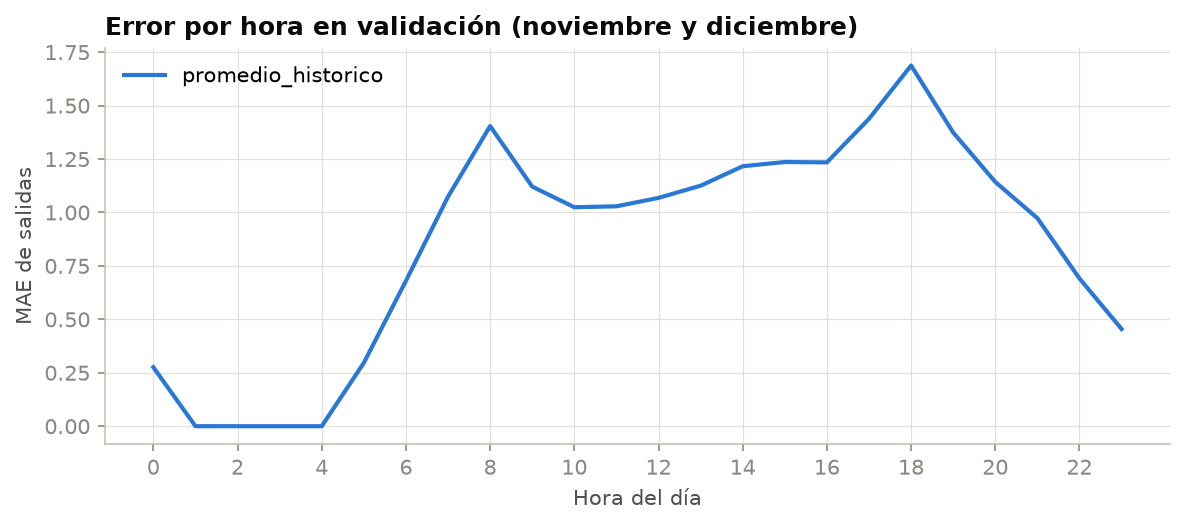
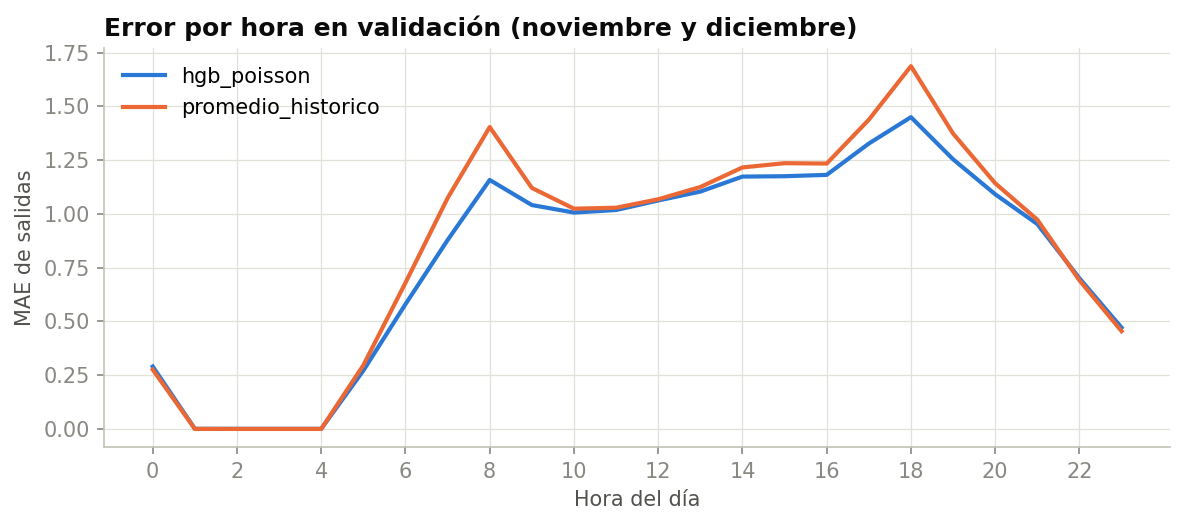
Entrena, evalúa y registra los modelos de MiBici
Agrega el pipeline de scikit-learn con ajuste temporal de hiperparámetros, compara los modelos con las líneas base y registra el mejor en MLflow. Incluye predicción por lote y actualiza las gráficas de resultados.

diff --git a/mibici_mlops/modeling/train.py b/mibici_mlops/modeling/train.py
@@ -1,0 +1,212 @@
+"""Ajuste temporal, entrenamiento y evaluacion de los modelos de demanda."""
+
+from pathlib import Path
+from tempfile import TemporaryDirectory
+from typing import Annotated
+
+from loguru import logger
+import mlflow
+import mlflow.sklearn
+import pandas as pd
+from sklearn.ensemble import HistGradientBoostingRegressor
+from sklearn.linear_model import PoissonRegressor
+from sklearn.model_selection import ParameterGrid
+from sklearn.multioutput import MultiOutputRegressor
+from sklearn.pipeline import make_pipeline
+import typer
+
+from mibici_mlops.config import (
+    EXPERIMENT_MODELS,
+    MLFLOW_TRACKING_URI,
+    PROCESSED_DATA_DIR,
+    RANDOM_SEED,
+    REGISTERED_MODEL_NAME,
+    SELECTION_METRIC,
+    TARGET_IMPROVEMENT_PCT,
+    TRAIN_END,
+    TUNING_START,
+    YEAR_END,
+    YEAR_START,
+)
+from mibici_mlops.features import (
+    FEATURE_COLUMNS,
+    STATION_NUMERIC,
+    TARGETS,
+    FeatureBuilder,
+    build_preprocessor,
+)
+from mibici_mlops.modeling.compare import comparison_table, load_runs
+from mibici_mlops.modeling.evaluate import improvement_pct, peak_mask, score_frame
+from mibici_mlops.modeling.predict import KEYS, predict_frame
+from mibici_mlops.tracking import file_sha256
+
+app = typer.Typer(pretty_exceptions_show_locals=False)
+CANDIDATES = {
+    "poisson": (PoissonRegressor, {"alpha": [0.001, 0.01], "solver": ["newton-cholesky"]}),
+    "hgb_poisson": (
+        HistGradientBoostingRegressor,
+        {
+            "max_leaf_nodes": [31, 63],
+            "loss": ["poisson"],
+            "max_iter": [100],
+            "early_stopping": [False],
+            "random_state": [RANDOM_SEED],
+        },
+    ),
+}
+
+
+def fit_and_score(estimator, train: pd.DataFrame, valid: pd.DataFrame):
+    preprocessor = build_preprocessor().set_params(sparse_threshold=0)
+    pipeline = make_pipeline(preprocessor, MultiOutputRegressor(estimator))
+    pipeline.fit(train[FEATURE_COLUMNS], train[TARGETS])
+    predictions = predict_frame(pipeline, valid)
+    metrics = score_frame(valid, {target: predictions[f"pred_{target}"] for target in TARGETS})
+    return pipeline, predictions, metrics
+
+
+def train_candidate(name, train, valid, tuning_train, tuning_valid, data_tags):
+    estimator, grid = CANDIDATES[name]
+    trials = []
+    for params in ParameterGrid(grid):
+        _, _, metrics = fit_and_score(estimator(**params), tuning_train, tuning_valid)
+        trials.append({"params": params, "metrics": metrics})
+        logger.info(f"{name} {params}: MAE pico de ajuste = {metrics[SELECTION_METRIC]:.3f}")
+
+    best = min(
+        trials,
+        key=lambda trial: (trial["metrics"][SELECTION_METRIC], trial["metrics"]["salidas_mae"]),
+    )
+    with mlflow.start_run(run_name=name):
+        mlflow.set_tags({"tipo": "modelo", **data_tags})
+        mlflow.log_params(
+            {
+                "modelo": name,
+                "semilla": RANDOM_SEED,
+                "inicio_validacion_interna": TUNING_START,
+                "inicio_validacion_final": TRAIN_END,
+                **best["params"],
+            }
+        )
+        mlflow.log_dict({"pruebas": trials}, "ajuste_hiperparametros.json")
+        pipeline, predictions, metrics = fit_and_score(estimator(**best["params"]), train, valid)
+        mlflow.log_metrics(metrics)
+        with TemporaryDirectory() as tmp:
+            path = Path(tmp) / "predicciones_validacion.parquet"
+            predictions.to_parquet(path, index=False)
+            mlflow.log_artifact(str(path))
+
+        trusted_types = (
+            ["sklearn.ensemble._hist_gradient_boosting.predictor.TreePredictor"]
+            if estimator is HistGradientBoostingRegressor
+            else None
+        )
+        model = mlflow.sklearn.log_model(
+            pipeline,
+            name="modelo",
+            input_example=train[FEATURE_COLUMNS].head(),
+            serialization_format="skops",
+            skops_trusted_types=trusted_types,
+        )
+        logger.success(f"{name}: MAE pico = {metrics[SELECTION_METRIC]:.3f} | {model.model_uri}")
+
+
+def register_best(experiment: str, dataset_sha256: str):
+    runs = load_runs(experiment)
+    if "tags.dataset_sha256" not in runs:
+        raise typer.BadParameter("No hay corridas con una versión de datos registrada")
+    runs = runs[runs["tags.dataset_sha256"] == dataset_sha256]
+    if runs.empty:
+        raise typer.BadParameter("No hay corridas para este archivo de variables")
+
+    table = comparison_table(runs)
+    baselines = table[table["tipo"] == "linea_base"]
+    if baselines.empty:
+        raise typer.BadParameter("Ejecuta make baseline antes de registrar el modelo")
+    baseline = baselines.iloc[0]
+    improvement = improvement_pct(table[SELECTION_METRIC], baseline[SELECTION_METRIC])
+    eligible = table[
+        (table["tipo"] == "modelo")
+        & (improvement >= TARGET_IMPROVEMENT_PCT)
+        & (table["llegadas_mae_pico"] <= baseline["llegadas_mae_pico"])
+    ]
+    if eligible.empty:
+        raise typer.BadParameter(
+            "Ningún modelo cumple la meta de salidas y el criterio de llegadas"
+        )
+
+    client = mlflow.MlflowClient()
+    run = client.get_run(eligible.iloc[0]["run_id"])
+    versions = client.search_model_versions(f"name = '{REGISTERED_MODEL_NAME}'")
+    for version in versions:
+        if version.run_id == run.info.run_id and version.status == "READY":
+            return version
+
+    model_id = run.outputs.model_outputs[0].model_id
+    tags = {**run.data.params, **run.data.metrics, "dataset_sha256": dataset_sha256}
+    return mlflow.register_model(f"models:/{model_id}", REGISTERED_MODEL_NAME, tags=tags)
+
+
+@app.command()
+def main(
+    model: str = "all",
+    features_path: Annotated[Path, typer.Option(exists=True, dir_okay=False)] = (
+        PROCESSED_DATA_DIR / "variables_oficial.parquet"
+    ),
+    demand_path: Annotated[Path, typer.Option(exists=True, dir_okay=False)] = (
+        PROCESSED_DATA_DIR / "demanda_estacion_hora_oficial.parquet"
+    ),
+    experiment: str = EXPERIMENT_MODELS,
+    register_only: bool = False,
+):
+    mlflow.set_tracking_uri(MLFLOW_TRACKING_URI)
+    dataset_sha256 = file_sha256(features_path)
+    if register_only:
+        version = register_best(experiment, dataset_sha256)
+        logger.success(f"Modelo registrado: models:/{version.name}/{version.version}")
+        return
+
+    if model != "all" and model not in CANDIDATES:
+        raise typer.BadParameter("El modelo debe ser all, poisson o hgb_poisson")
+
+    cutoff = pd.Timestamp(TRAIN_END)
+    features = pd.read_parquet(
+        features_path,
+        columns=KEYS + FEATURE_COLUMNS + TARGETS,
+        filters=[
+            ("fecha_hora", ">=", pd.Timestamp(YEAR_START)),
+            ("fecha_hora", "<", pd.Timestamp(YEAR_END)),
+        ],
+    )
+    train = features[features["fecha_hora"] < cutoff]
+    valid = features[features["fecha_hora"] >= cutoff]
+
+    stations = train[["estacion_id", *STATION_NUMERIC, "zona"]].drop_duplicates()
+    demand = pd.read_parquet(
+        demand_path,
+        columns=KEYS + TARGETS,
+        filters=[("fecha_hora", ">=", pd.Timestamp(YEAR_START)), ("fecha_hora", "<", cutoff)],
+    )
+    tuning = FeatureBuilder(stations, train_end=TUNING_START).fit_transform(demand)
+    tuning_train = tuning[tuning["particion"] == "entrenamiento"]
+    tuning_valid = tuning[tuning["particion"] == "validacion"]
+    del features, demand, tuning
+    if (
+        train.empty
+        or tuning_train.empty
+        or not peak_mask(valid).any()
+        or not peak_mask(tuning_valid).any()
+    ):
+        raise typer.BadParameter("Los datos deben cubrir las particiones y sus horas pico")
+
+    mlflow.set_experiment(experiment)
+    data_tags = {
+        "dataset_sha256": dataset_sha256,
+        "demanda_sha256": file_sha256(demand_path),
+    }
+    for name in CANDIDATES if model == "all" else [model]:
+        train_candidate(name, train, valid, tuning_train, tuning_valid, data_tags)
+
+
+if __name__ == "__main__":
+    app()

diff --git a/mibici_mlops/modeling/predict.py b/mibici_mlops/modeling/predict.py
@@ -1,0 +1,55 @@
+"""Prediccion por lote sobre variables preparadas por estacion y hora."""
+
+from datetime import datetime, timedelta
+from pathlib import Path
+from typing import Annotated
+
+from loguru import logger
+import mlflow
+import mlflow.sklearn
+import numpy as np
+import pandas as pd
+from sklearn.pipeline import Pipeline
+import typer
+
+from mibici_mlops.config import MLFLOW_TRACKING_URI
+from mibici_mlops.features import FEATURE_COLUMNS, TARGETS
+
+app = typer.Typer(pretty_exceptions_show_locals=False)
+KEYS = ["estacion_id", "fecha_hora"]
+
+
+def predict_frame(model: Pipeline, features: pd.DataFrame) -> pd.DataFrame:
+    values = np.clip(model.predict(features[FEATURE_COLUMNS]), 0, None)
+    return features[KEYS].assign(
+        **{f"pred_{target}": values[:, i] for i, target in enumerate(TARGETS)}
+    )
+
+
+@app.command()
+def main(
+    model_uri: str,
+    input_path: Annotated[Path, typer.Argument(exists=True, dir_okay=False)],
+    output_path: Path,
+    date: Annotated[datetime | None, typer.Option(formats=["%Y-%m-%d"])] = None,
+):
+    if input_path.resolve() == output_path.resolve():
+        raise typer.BadParameter("El archivo de salida debe ser distinto de la entrada")
+
+    filters = None
+    if date is not None:
+        filters = [("fecha_hora", ">=", date), ("fecha_hora", "<", date + timedelta(days=1))]
+    features = pd.read_parquet(input_path, columns=KEYS + FEATURE_COLUMNS, filters=filters)
+    if features.empty:
+        raise typer.BadParameter("No hay filas de entrada para predecir")
+
+    mlflow.set_tracking_uri(MLFLOW_TRACKING_URI)
+    model = mlflow.sklearn.load_model(model_uri)
+    predictions = predict_frame(model, features)
+    output_path.parent.mkdir(parents=True, exist_ok=True)
+    predictions.to_parquet(output_path, index=False)
+    logger.success(f"{len(predictions):,} predicciones en {output_path}")
+
+
+if __name__ == "__main__":
+    app()

diff --git a/mibici_mlops/features.py b/mibici_mlops/features.py
@@ -43,6 +43,7 @@ NUMERIC = [
 ]
 BINARY = ["es_fin_semana", "es_festivo"]
 CATEGORICAL = ["dia_semana", "zona"]
+FEATURE_COLUMNS = NUMERIC + BINARY + CATEGORICAL
 
 
 def build_demand(trips: pd.DataFrame) -> pd.DataFrame:
@@ -151,14 +152,16 @@ class FeatureBuilder:
             station_ids = sorted(df.loc[missing, "estacion_id"].unique().tolist())
             if not allow_missing_stations:
                 raise ValueError(f"Hay estaciones sin atributos en el catálogo: {station_ids}")
-            df[STATION_NUMERIC] = df[STATION_NUMERIC].fillna(self.stations[STATION_NUMERIC].median())
+            df[STATION_NUMERIC] = df[STATION_NUMERIC].fillna(
+                self.stations[STATION_NUMERIC].median()
+            )
             df["zona"] = df["zona"].fillna("SIN_ZONA")
-            logger.warning(f"Se imputaron atributos del catálogo para las estaciones {station_ids}")
+            logger.warning(
+                f"Se imputaron atributos del catálogo para las estaciones {station_ids}"
+            )
         df = df.merge(pcs, left_on="estacion_id", right_index=True, how="left")
         df = df.dropna(subset=["salidas_lag_168", "llegadas_media_7d"])
-        required_features = NUMERIC + BINARY + CATEGORICAL
-
-        missing = df[required_features].isna().sum()
+        missing = df[FEATURE_COLUMNS].isna().sum()
         missing = missing[missing > 0]
 
         if not missing.empty:

diff --git a/mibici_mlops/config.py b/mibici_mlops/config.py
@@ -63,6 +63,7 @@ MAX_TRIP_MIN = 1440.0
 MIN_STATION_TRIPS_PLOT = 1000
 
 # Particion temporal: entrenamiento enero-octubre, validacion noviembre-diciembre de 2025
+TUNING_START = "2025-10-01"
 TRAIN_END = "2025-11-01"
 
 # Dias festivos oficiales de 2025 (Ley Federal del Trabajo, art. 74)
@@ -81,6 +82,7 @@ MLFLOW_TRACKING_URI = os.getenv("MLFLOW_TRACKING_URI", "http://127.0.0.1:5000")
 EXPERIMENT_DATA = "MiBici_Fase1_Versiones_Datos"
 EXPERIMENT_BASELINE = "MiBici_Fase1_Experimentos_Datos"
 EXPERIMENT_MODELS = "MiBici_Fase2_Modelos"
+REGISTERED_MODEL_NAME = "MiBici_Demanda"
 
 # Fase 2: metrica para elegir modelo y semilla comun para que las corridas sean reproducibles
 SELECTION_METRIC = "salidas_mae_pico"

diff --git a/README.md b/README.md
@@ -100,7 +100,9 @@ mibici_mlops/
 │   ├── plots.py             # Figuras del EDA
 │   ├── flagged_trips.py     # Análisis de viajes marcados
 │   └── modeling/
-│       └── train.py         # Líneas base y experimentos
+│       ├── baselines.py     # Líneas base
+│       ├── train.py         # Ajuste y entrenamiento de modelos
+│       └── predict.py       # Predicción por estación y hora
 ├── models/                  # Modelos generados
 ├── notebooks/               # Notebooks de análisis
 ├── references/              # Material de referencia y URLs
@@ -193,6 +195,28 @@ make validate baseline
 ```
 
 El catálogo de octubre de 2026 del portal no incluye la estación histórica 240. `--allow-missing-stations` conserva sus viajes y usa las medianas del catálogo para sus atributos numéricos y `SIN_ZONA` para la zona. `make validate` sigue reportando la estación ausente. Si tienes el catálogo de septiembre, indica su ruta con `MIBICI_STATIONS_FILE` y ejecuta `features` sin esa opción.
+
+### Entrenamiento y predicción de la Fase 2
+
+Con `variables_oficial.parquet` y `demanda_estacion_hora_oficial.parquet` en `data/processed/`, ejecuta estos pasos usando el mismo backend de MLflow:
+
+```bash
+make baseline train compare register
+```
+
+Se ajusta cada candidato con enero a septiembre y se eligen sus hiperparámetros con octubre. Después se reentrena con enero a octubre y se mide con noviembre y diciembre. Cada corrida guarda el pipeline de salidas y llegadas, las pruebas de ajuste, las métricas y las predicciones de validación en `MiBici_Fase2_Modelos`. La comparación escribe la tabla y las figuras en `reports/`.
+
+`make register` registra el mejor modelo en `MiBici_Demanda` con los hiperparámetros y métricas de su corrida. Se exige una mejora de al menos 15 % en el MAE de salidas en pico y que el MAE de llegadas en pico sea igual o menor que el de la línea base.
+
+Usa el URI versionado que muestra el registro para generar predicciones de un día a partir de un Parquet de variables ya preparado:
+
+```bash
+python -m mibici_mlops.modeling.predict 'models:/MiBici_Demanda/1' \
+  data/processed/variables_oficial.parquet data/processed/predicciones_dia.parquet \
+  --date 2025-11-03
+```
+
+Sin `--date`, se predicen todas las filas de la entrada. La salida contiene estación, fecha y hora, salidas estimadas y llegadas estimadas.
 
 ---
 
